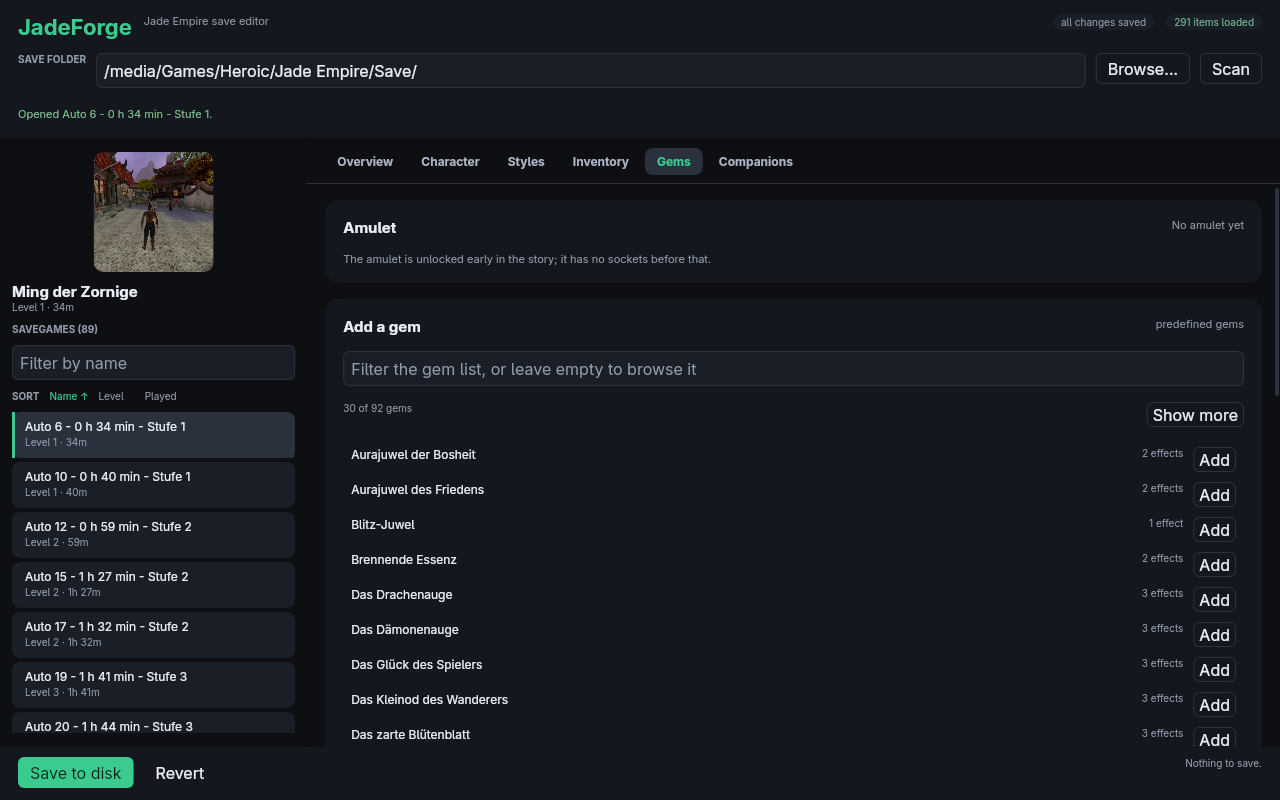
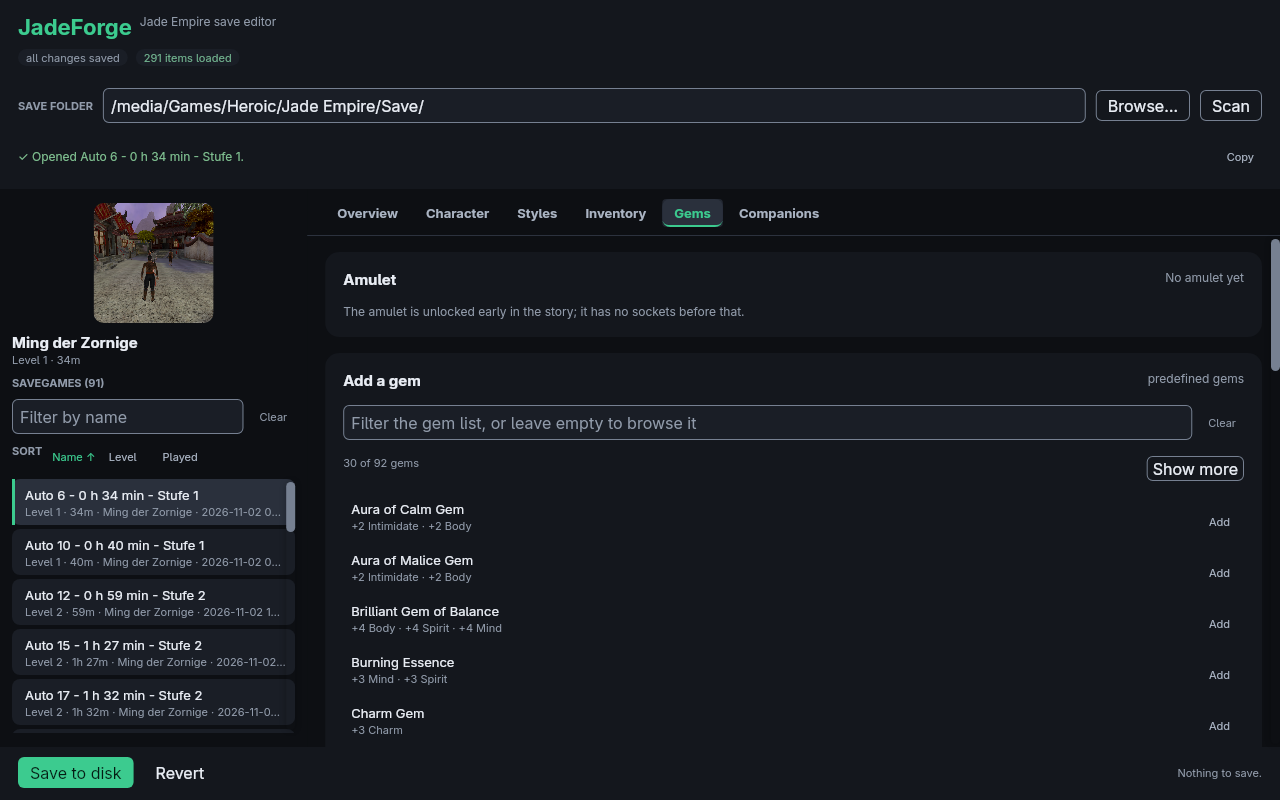
document the p1 ui work
Records the responsive layout, state safety, discoverability,
accessibility and performance changes in the changelog, maps the P1
checklist in docs/UI-REVIEW.md with the remaining items (manual Scan off
the UI thread, window/live verification and a screen-reader pass), and
refreshes docs/COVERAGE.md from a new full-corpus and no-game-data
measurement. The tracked screenshots are regenerated from the real
corpus at the default size.

diff --git a/docs/UI-REVIEW.md b/docs/UI-REVIEW.md
@@ -1,8 +1,8 @@
 # Desktop UI review: status and remaining work
 
-**Reviewed:** 2026-11-05 · **Base:** `main` at `9151c2a`
+**Reviewed:** 2026-11-05, P1 follow-up 2026-11-06 · **Base:** `main` at `6e1d4b8`
 **Scope:** the Freya 0.5 desktop UI in `crates/jadeforge-gui`, the session state it renders, and the real 89-savegame corpus.
-**Status:** P0 release blockers are addressed. P1/P2/P3 work is tracked in GitHub issues; the remaining upstream blocker is the missing `Input` label association.
+**Status:** P0 release blockers are addressed and the P1 follow-ups are implemented on `fix/ui-p1-followups`, with the exceptions listed under P1. P2/P3 work is tracked in GitHub issues; the remaining upstream blocker is the missing `Input` label association.
 
 ![JadeForge overview](screenshot.png)
 
@@ -32,15 +32,32 @@ The GitHub issues are the source of truth for checklists. This section is a shor
 
 ### P1: [#7](https://github.com/mztikk/jade_empire_save_editor/issues/7)
 
-High-value follow-ups:
+Addressed on the `fix/ui-p1-followups` branch:
 
-- **Responsive composition:** default 1180×760 still wraps `KILLS` alone; the Overview grids use fixed 340/120 px cells; wide windows have no content cap; window geometry/DPI is not remembered.
-- **State safety:** Scan clears the open save; Browse opens the dialog before the dirty check; filters/page limits/expanded ids/scroll leak across saves and folders; an invalid character form blocks saving unrelated edits; dirty is a sticky flag, not content equality.
-- **Feedback and recovery:** no-save state leaves tabs and Save/Revert enabled; status messages are clipped and ephemeral; folder errors look empty; game data cannot be located from the UI.
-- **Discoverability:** expandable rows have no chevron; orbs have no effect/cost preview; read-only styles are silent; descriptions truncate at five lines; gem effects are hidden until added.
-- **Editing UX:** no keyboard shortcuts; stack size and companion level are stepper-only; save rows omit the character name and modified time.
-- **Accessibility polish:** targets below 24×24 (sort 38×12, ± 23×25), 10–11 px secondary type, low non-text contrast for inputs/scrollbars, colour-only active tab, green overload for unsaved/success, missing hover states.
-- **Performance:** manual Scan blocks the UI thread; per-frame derived lists and all-row hover rebuilds; no instrumentation or 89-save render test.
+| Area | Result |
+| --- | --- |
+| Responsive composition | Fluid 3+3 identity grid at 1180×760 and 900×700, overview glance cells 1-up → 2+2+1, hero stats 2×2, 1100 px editor cap and a 720 px text measure; descriptions expand in full. |
+| Window geometry | `geometry::fit_window` clamps the default and remembered size to the monitor, lowers the minimum on short screens and keeps a stored position on screen; a plugin remembers the rectangle. Tested for 1366×768 at 125 %. |
+| Clipped names | Ellipsis plus a tooltip on save, item, companion and sidebar names; the overview path wraps and has a Copy path action. |
+| State safety | Scan keeps the open savegame for the same folder and re-locates it by path; Browse checks dirty state before the dialog; filters, paging, expanded rows and scroll positions reset on a document change; every filter has a Clear button. |
+| Save vs. form | Each field validates on its own and shows its range; valid fields apply even when another is invalid; Save writes applied edits, reports the invalid form separately and focuses the first invalid field. |
+| Dirty state | Content comparison against canonical block payloads: edit-then-restore clears the flag. |
+| No-save and feedback | Tabs and Save/Revert are disabled without a savegame and the empty state has a primary folder action; status is a persistent three-line, copyable slot with a success glyph; unreadable sections are not shown as empty lists; folder and game-installation errors are distinct. |
+| Discoverability | Chevron/Details rows, orb hover and focus details with the buy/remove explanation, a read-only style notice, gem effect lines in the picker. |
+| Editing UX | Contextual accessible names, Ctrl+S/O/F, F5, Enter, Escape and tab arrow keys, direct numeric stack/level editing, character name and UTC modification time in save rows. |
+| Accessibility | 28 px row targets, 11 px micro / 14 px body type, 3:1 control borders, tab underline, amber unsaved state, focus restoration after a removal, focusable keyboard scroll view. |
+| Performance | Save filter/sort, item suggestions, learnable styles and the form reparse are memoised; save rows keep stable `Action` objects and paint hover without a rebuild; frame-time instrumentation and an 89-save render test. |
+
+Still open for #7:
+
+- Manual Scan (the header button, `F5` and Enter) still scans on the UI
+  thread; the startup scan is already off-thread. Progress and cancellation
+  need a two-phase scan API.
+- The window-geometry plugin and the scroll-view paging keys are window-path
+  behaviour. The headless suite covers the pure geometry and the focus target,
+  but the real window and the resulting scroll offset were not run (the
+  windowed suite needs explicit permission).
+- The status live region still needs a screen-reader pass with Orca or NVDA.
 
 ### P2: [#8](https://github.com/mztikk/jade_empire_save_editor/issues/8)
 
@@ -78,10 +95,11 @@ tracked as an open issue:
 
 ## Verification
 
-- `just check`: 306 workspace tests, 42 headless UI tests, clippy and formatting clean.
-- `just live`: all 5 windowed scenarios pass, including `keyboard_navigates_the_save_list` (Tab → list box, Down → second save, Enter → opens) through real KWin input.
-- Live AT-SPI check: static text, count, status, tab selected state and the focusable save list box were current; the desktop accessibility setting was restored afterwards.
-- The P0 work is merged on `main`; the remaining work above is tracked in #7, #8, #9 and the three upstream issues.
+- `just check`: workspace tests, clippy and formatting clean after the P1 work (see `docs/COVERAGE.md` for the current counts and coverage).
+- Headless coverage of the P1 work: geometry at 1180x760, 900x700 and 1600x900; DPI geometry for 1366x768 at 125 %; scan-keeps-save; dirty content comparison; invalid-form save independence; first-invalid-field focus; focus restoration after removal; target sizes; keyboard scrolling focus; the 89-save render test.
+- `just live` was **not** run for this branch. The window geometry plugin, the presentation of the new theme values and the scroll-view paging keys are window-path behaviour and remain unverified in a real window.
+- Live AT-SPI check: static text, count, status, tab selected state and the focusable save list box were current; the desktop accessibility setting was restored afterwards. This was the P0 review; the P1 status live region has not been re-validated with a screen reader.
+- The P0 work is merged on `main`; the remaining P1 items and #8/#9 are tracked in the issues above.
 
 ## Notes
 

diff --git a/docs/COVERAGE.md b/docs/COVERAGE.md
@@ -24,60 +24,65 @@ env -u JADEFORGE_SAVE_DIR -u JADEFORGE_GAME_DIR -u JADEFORGE_CONFIG_DIR \
     just coverage
 ```
 
-## Baseline (2026-11-05)
+## Baseline (2026-11-06, after the P1 UI work)
 
 | metric | full corpus | no game data |
 | --- | --- | --- |
-| lines | **15 954 / 17 898 = 89.1 %** | **15 980 / 17 898 = 89.3 %** |
-| functions | **946 / 1 218 = 77.7 %** | **950 / 1 218 = 78.0 %** |
-| regions | **9 674 / 10 789 = 89.7 %** | **9 691 / 10 789 = 89.8 %** |
-| tests run | 306 | 306 |
+| lines | **12 186 / 13 709 = 88.9 %** | **12 233 / 13 709 = 89.2 %** |
+| functions | **1 225 / 1 530 = 80.1 %** | **1 230 / 1 530 = 80.4 %** |
+| regions | **19 666 / 22 223 = 88.5 %** | **19 723 / 22 223 = 88.8 %** |
+| tests run | 382 | 382 |
 
 Several crates keep unit tests inside `src/`, so those test lines are part of
-the totals above. The previous non-test-only table was measured with a smaller
-suite and is not directly comparable, so it is not repeated here.
+the totals above.
 
 | crate | full corpus | no game data |
 | --- | --- | --- |
-| `jadeforge-cli` | 89.8 % | 89.8 % |
-| `jadeforge-core` | 83.6 % | 83.1 % |
-| `jadeforge-gamedata` | 95.8 % | 95.6 % |
-| `jadeforge-gff` | 89.7 % | 89.7 % |
-| `jadeforge-gui` | 88.1 % | 90.0 % |
-| `jadeforge-session` | 92.3 % | 91.8 % |
+| `jadeforge-cli` | 90.3 % | 90.3 % |
+| `jadeforge-core` | 83.8 % | 83.5 % |
+| `jadeforge-gamedata` | 95.6 % | 95.2 % |
+| `jadeforge-gff` | 92.5 % | 92.5 % |
+| `jadeforge-gui` | 88.5 % | 90.1 % |
+| `jadeforge-session` | 88.5 % | 88.4 % |
 
 Notes:
 
 - Branch coverage is not collected; the report is line/function/region based.
 - No test is `#[ignore]`d. Real-corpus tests return early without
   `JADEFORGE_SAVE_DIR`, while the GUI suite builds its synthetic fixture and
-  still runs all 42 headless tests. `nextest` reports 306 run; the only skip
-  is the opt-in windowed suite.
+  still runs all 107 headless tests without game data. `nextest` reports 382
+  run; the only skip is the opt-in windowed suite.
 - GUI numbers are inflated by declarative view code that runs on every render.
   Treat GUI coverage as a regression signal, not as a quality target.
 - The full-corpus GUI number is lower because the real-corpus fixture copies the
   smallest savegame, which has no amulet; the synthetic no-game fixture exercises
   the gem view.
+- The P1 work added geometry, window-fit, validation, memoisation, target-size,
+  focus-restoration and an 89-save render test. `gui/src/geometry.rs` is covered
+  by its own unit tests but its winit monitor path cannot run headlessly;
+  `session/src/session/form.rs` is lower than the rest of the session crate
+  because the per-field validation branches for every numeric type are not all
+  exercised by one fixture.
 - CLI coverage is real binary coverage: the tests invoke
   `CARGO_BIN_EXE_jadeforge-cli` and cover `add-item`, every editable field type
   and the no-game-data fallbacks.
 - GFF and game-data coverage is now almost entirely synthetic: both crates are
-  above 95 % without a game installation.
+  above 92 % without a game installation.
 
 ## Where the gaps are
 
 | file | full corpus | no game data | why it matters |
 | --- | ---: | ---: | --- |
-| `gui/src/views/gems.rs` | 59.2 % | 81.1 % | the real-corpus fixture has no amulet; the synthetic one does |
-| `gui/src/views/styles.rs` | 84.8 % | 82.4 % | all views need an opened savegame |
+| `gui/src/views/gems.rs` | 51.6 % | 79.9 % | the real-corpus fixture has no amulet; the synthetic one does |
+| `gui/src/views/styles.rs` | 86.3 % | 84.1 % | all views need an opened savegame |
 | `gui/src/views/character.rs` | 100 % | 100 % | fully exercised by the synthetic save |
-| `gui/src/dialog.rs` | 63.2 % | 63.2 % | native folder dialog; not headless-testable |
-| `core/src/henchmen.rs` | 82.0 % | 82.0 % | the remaining lines are defensive/unreachable |
-| `core/src/screenshot.rs` | 79.8 % | 79.8 % | malformed TGA error paths |
-| `session/src/session.rs` | 92.3 % | 91.9 % | a few game-data helpers |
-| `gff/src/value.rs` | 94.6 % | 94.6 % | the remaining decode/accessor lines are unreachable or defensive |
-| `gff/src/lib.rs` | 88.9 % | 88.9 % | add/remove branches and duplicate-stack guards |
-| `gamedata/src/gamedata.rs` | 98.2 % | 98.2 % | stale test-root/env discovery and a non-UTF-8 filename branch |
+| `gui/src/geometry.rs` | 79.8 % | 79.8 % | the pure fit tests run; the monitor query needs a real event loop |
+| `gui/src/dialog.rs` | 64.5 % | 64.5 % | native folder dialog; not headless-testable |
+| `session/src/session/form.rs` | 71.5 % | 71.5 % | per-field validation has one branch per numeric type |
+| `core/src/save.rs` | 78.4 % | 78.0 % | canonical-block comparison and write error paths |
+| `core/src/henchmen.rs` | 82.0 % | 81.0 % | the remaining lines are defensive/unreachable |
+| `gff/src/lib.rs` | 88.8 % | 88.8 % | add/remove branches and duplicate-stack guards |
+| `gamedata/src/gamedata.rs` | 98.1 % | 97.1 % | stale test-root/env discovery and a non-UTF-8 filename branch |
 
 ## Recently completed
 

diff --git a/CHANGELOG.md b/CHANGELOG.md
@@ -8,6 +8,36 @@ All notable changes are documented here. The format follows
 
 ### Added
 
+- Responsive editor composition: the six identity fields are a fluid 3+3
+  grid at the default 1180x760 window and at the 900 minimum, the overview
+  glance cells reflow from one column to 2+2+1 and the hero stats stay a 2x2
+  block, the editor column stops at 1100 px on wide windows, descriptions
+  expand in full, and clipped save, item and companion names get an ellipsis
+  plus a tooltip. The overview save path wraps and can be copied.
+- DPI-aware window geometry: the default size is clamped to the monitor, the
+  minimum follows a short screen, and the size and position are remembered
+  between runs (Wayland reports no position, so the stored one is kept).
+- Per-field character validation: every field shows its allowed range, an
+  invalid input is marked and reported, valid fields of an otherwise invalid
+  form are applied, and Save focuses the first invalid field while still
+  writing every applied item, style or gem edit.
+- Unsaved state is a content comparison, so an edit that is undone clears the
+  dirty flag again; Scan keeps the open savegame when the folder did not
+  change; a missing, unreadable, empty and file path are reported separately;
+  only a successful scan replaces the remembered folder.
+- The missing game installation can be chosen from the header, is remembered
+  in the settings file, and the discovered root is shown; sections that could
+  not be read are no longer rendered as empty lists.
+- Discoverability and editing: disclosure chevrons and Details affordances on
+  expandable rows, upgrade-orb effect/cost/owned details, a read-only notice
+  for styles without a slot table, gem effect lines in the picker, contextual
+  accessible names for row actions, direct numeric stack and companion-level
+  editing, desktop shortcuts (Ctrl+S/O/F, F5, Enter, Escape, tab arrows) and
+  the character name and modification time in save rows.
+- Accessibility and diagnostics: 28 px targets, 11 px micro and 14 px body
+  type, 3:1 control borders, a non-colour active-tab underline, an explicit
+  success glyph, focus restoration after removing a row, a focusable keyboard
+  scroll view, frame-time instrumentation and an 89-save render test.
 - A generated English name index for items and styles, plus item categories,
   used when no game installation is available. It keeps downloaded and console
   saves readable on machines without the game and enables the item picker;
